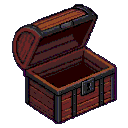
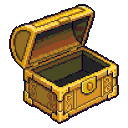
金色发光宝箱 + 右上角小地图与 Tab 全图
**宝箱改成金色并会发光**：原来是深褐木箱，在暗洞里几乎看不见。
重出成刻花纹的黄铜金箱、锁扣嵌琥珀宝石，开启态配套做了一个（盖子掀开、里面空且暗）。
渲染上给「没开过的」箱子加两层特效：
- 一圈暖金色径向光晕，加色混合（暗背景上才亮得起来），2.4 秒呼吸一次——
  比 tiles.js 里那些动画还慢，绝不做成一闪一闪的
- 箱盖上飘两点碎光，位置是 animT 的纯函数，不掷随机数（掷了会变噪点）
开过的箱子不发光也不飘碎光——已经拿完了就别再吸引注意。

**地图**：右上角常驻小地图，Tab 或 Q 摊开全图（再按一次、或确认/取消关掉）。
罗经圈本来就是「像罗盘一样绕」的设计，没有地图很容易迷路。
小地图只画地形色块不画瓦片图——16×16 的瓦片缩到 2px 什么也看不出，反而糊成一片。
墙与水分开配色（都过不去，但水另给一色）、楼梯与门是青点、没开的箱是金点、
开过的不画，主角是白点配 2.2 秒的柔和呼吸。
地名条出现时小地图让位，摊开全图时两者都让位。

顺带修：新出的铺石地又是粉的（Gemini 画石材爱带粉红，这是第二次踩）。
用跟上一版同一套参数校色成暖灰石，并把这条连同山瓦片的坑写进 char_prompts.json。

测试 44/44，完整自动试玩通过。

diff --git a/src/field/FieldScene.js b/src/field/FieldScene.js
@@ -86,7 +86,7 @@ export function parseMap(md) {
 
 export class FieldScene {
   constructor(game) {
-    this.game = game; this.transparent = false; this.bgm = 'field'; this.animT = 0; this.nameT = 0;
+    this.game = game; this.transparent = false; this.bgm = 'field'; this.animT = 0; this.nameT = 0; this.showMap = false;
     const m = game.state.map;
     this.loadMap(m.id, m.x, m.y, m.facing);
   }
@@ -161,6 +161,8 @@ export class FieldScene {
       if (input.justPressed('debugHeal')) for (const m of this.game.state.party) healFull(m, this.game.data);
     }
     if (!p.moving) {
+      if (input.justPressed('map')) { audio.sfx('confirm'); this.showMap = !this.showMap; return; }
+      if (this.showMap) { if (input.justPressed('confirm') || input.justPressed('cancel')) this.showMap = false; return; }
       if (input.justPressed('cancel')) { audio.sfx('confirm'); this.game.scenes.push(new MenuScene(this.game)); return; }
       if (input.justPressed('confirm')) { this.interact(); return; }
     }
@@ -273,6 +275,73 @@ export class FieldScene {
   }
 
   // ---------- 渲染 ----------
+
+  // ---------- 地图 ----------
+  // 右上角常驻小地图 + 按 Tab/Q 摊开全图。
+  // 洞窟绕来绕去（罗经圈本来就是「像罗盘一样绕」的设计），没有地图很容易迷路。
+  // 小地图只画地形色块不画瓦片图：16×16 的瓦片缩到 2px 什么也看不出，反而糊成一片。
+  mapColor(cell) {
+    const t = cell.tile;
+    if (cell.solid) return t === 'water' ? '#1d3c52' : '#2b2a30';   // 墙与水都是过不去的，但水另给一色
+    if (t === 'path' || t === 'flagstone' || t === 'floor') return '#8a7a5e';
+    if (t === 'sand') return '#9c8f6a';
+    if (t === 'grass' || t === 'town') return '#4a6b3a';
+    if (t === 'forest' || t === 'tree') return '#2f4a2a';
+    if (t === 'bridge') return '#7a5a3a';
+    return '#4a4750';                                                // 洞窟地面等
+  }
+  // 画一张地图：scale = 每格几个逻辑像素
+  drawMapAt(ctx, ox, oy, scale, { dots = true } = {}) {
+    const map = this.map, st = this.game.state;
+    for (let y = 0; y < map.h; y++) for (let x = 0; x < map.w; x++) {
+      ctx.fillStyle = this.mapColor(map.cells[y * map.w + x]);
+      ctx.fillRect(ox + x * scale, oy + y * scale, scale, scale);
+    }
+    if (!dots) return;
+    // 楼梯与门：亮青色；没开过的宝箱：金色；开过的不画（已经拿完了就别再吸引注意）
+    for (const ev of Object.values(map.events)) {
+      const s = Math.max(1, scale);
+      if (ev.type === 'warp') ctx.fillStyle = '#6fe0d0';
+      else if (ev.type === 'chest') { if (this.chestOpened(ev)) continue; ctx.fillStyle = '#ffd257'; }
+      else if (ev.type === 'crystal') ctx.fillStyle = '#ff9c4a';
+      else continue;
+      ctx.fillRect(ox + ev.x * scale, oy + ev.y * scale, s, s);
+    }
+    // 主角：白点 + 2.2 秒一次的柔和呼吸（周期够慢，不会看成闪）
+    const k = 0.72 + 0.28 * Math.sin(this.animT * (2 * Math.PI / 2.2));
+    ctx.globalAlpha = k;
+    ctx.fillStyle = '#fff';
+    ctx.fillRect(ox + this.p.x * scale - (scale < 2 ? 0 : 1), oy + this.p.y * scale - (scale < 2 ? 0 : 1),
+                 Math.max(2, scale + 2), Math.max(2, scale + 2));
+    ctx.globalAlpha = 1;
+  }
+  renderMinimap(ctx) {
+    const { W } = this.game, map = this.map;
+    const MAX = 54;                                   // 右上角这块最多占 54×54 逻辑像素
+    const scale = Math.max(1, Math.floor(Math.min(MAX / map.w, MAX / map.h)));
+    const mw = map.w * scale, mh = map.h * scale;
+    const ox = W - mw - 7, oy = 7;
+    ctx.save();
+    ctx.globalAlpha = 0.82;                           // 半透明，别把地图角落挡死
+    ctx.fillStyle = '#0d100e'; ctx.fillRect(ox - 2, oy - 2, mw + 4, mh + 4);
+    this.drawMapAt(ctx, ox, oy, scale);
+    ctx.globalAlpha = 1;
+    ctx.strokeStyle = '#6b5a3a'; ctx.lineWidth = 1;
+    ctx.strokeRect(ox - 2.5, oy - 2.5, mw + 5, mh + 5);
+    ctx.restore();
+  }
+  renderFullMap(ctx) {
+    const { W, H } = this.game, map = this.map;
+    ctx.fillStyle = 'rgba(8,10,9,0.88)'; ctx.fillRect(0, 0, W, H);
+    const scale = Math.max(1, Math.floor(Math.min((W - 40) / map.w, (H - 56) / map.h)));
+    const mw = map.w * scale, mh = map.h * scale;
+    const ox = Math.round((W - mw) / 2), oy = Math.round((H - mh) / 2) + 4;
+    drawWindow(ctx, ox - 6, oy - 6, mw + 12, mh + 12);
+    this.drawMapAt(ctx, ox, oy, scale);
+    drawText(ctx, map.name || '', W / 2, 8, { align: 'center', color: '#e6c46a' });
+    drawText(ctx, '楼梯/门 · 未开的箱 · 你', W / 2, H - 14, { align: 'center', color: '#8a8468' });
+  }
+
   render(ctx) {
     const { W, H } = this.game, p = this.p, map = this.map;
     const px = lerp(p.fromX, p.x, p.t) * TILE, py = lerp(p.fromY, p.y, p.t) * TILE;
@@ -296,7 +365,37 @@ export class FieldScene {
     }
     for (const ev of Object.values(map.events)) {
       if (ev.type !== 'chest') continue;
-      drawArt(ctx, this.game.tiles[this.chestOpened(ev) ? 'chest_open' : 'chest'], ev.x * TILE - camX, ev.y * TILE - camY);
+      const opened = this.chestOpened(ev);
+      const bx = ev.x * TILE - camX, by = ev.y * TILE - camY;
+      // 没开过的箱子发一层暖金色的光，让玩家在暗洞里一眼看见。
+      // 呼吸周期 2.4 秒——比 tiles.js 里那些还慢，绝不能做成一闪一闪的。
+      if (!opened) {
+        const k = 0.5 + 0.5 * Math.sin(this.animT * (2 * Math.PI / 2.4));
+        const cx = bx + TILE / 2, cy = by + TILE / 2;
+        const g = ctx.createRadialGradient(cx, cy, 1, cx, cy, TILE * (0.95 + k * 0.2));
+        g.addColorStop(0, `rgba(255,224,140,${0.30 + k * 0.16})`);
+        g.addColorStop(0.55, `rgba(255,196,90,${0.12 + k * 0.07})`);
+        g.addColorStop(1, 'rgba(255,190,80,0)');
+        ctx.save();
+        ctx.globalCompositeOperation = 'lighter';   // 加色，暗背景上才亮得起来
+        ctx.fillStyle = g;
+        ctx.fillRect(cx - TILE * 1.2, cy - TILE * 1.2, TILE * 2.4, TILE * 2.4);
+        ctx.restore();
+      }
+      drawArt(ctx, this.game.tiles[opened ? 'chest_open' : 'chest'], bx, by);
+      // 箱盖上飘两点碎光，位置是时间的纯函数（不掷随机数，免得变噪点）
+      if (!opened) {
+        ctx.save();
+        ctx.globalCompositeOperation = 'lighter';
+        for (let i = 0; i < 2; i++) {
+          const ph = this.animT / 3.1 + i * 0.5 + (ev.x * 0.37 + ev.y * 0.61);
+          const u = ph % 1;
+          ctx.globalAlpha = Math.sin(u * Math.PI) * 0.75;
+          ctx.fillStyle = '#fff4c8';
+          ctx.fillRect(Math.round(bx + 3 + ((i * 7 + Math.floor(ph) * 5) % 10)), Math.round(by + 11 - u * 9), 1, 1);
+        }
+        ctx.restore();
+      }
     }
     // 角色按 y 排序绘制
     const leader = this.game.state.party[0];
@@ -315,10 +414,11 @@ export class FieldScene {
     drawables.sort((a, b) => a.y - b.y).forEach(d => d.draw());
     this.renderAmbience(ctx, camX, camY, px, py, mw, mh);
     if (this.poisonT > 0) { ctx.fillStyle = 'rgba(120,40,160,0.35)'; ctx.fillRect(0, 0, W, H); }
-    if (this.nameT > 0 && map.name) {
+    if (this.showMap) this.renderFullMap(ctx);           // 摊开全图时地名条与小地图都让位
+    else if (this.nameT > 0 && map.name) {
       const w = 112; drawWindow(ctx, (W - w) / 2, 8, w, 26);
       drawText(ctx, map.name, W / 2, 15, { align: 'center' });
-    }
+    } else this.renderMinimap(ctx);
   }
   // 气氛层：粒子 → 光照 → 色调。画在人物之后、UI 之前，
   // 所以尘埃会被暗角压暗（远处的尘看着更远），而地图名和中毒闪不会被调色影响。

diff --git a/src/core/Input.js b/src/core/Input.js
@@ -5,12 +5,13 @@ const KEYMAP = {
   KeyZ: 'confirm', Enter: 'confirm', Space: 'confirm',
   KeyX: 'cancel', Escape: 'cancel', Backspace: 'cancel',
   KeyB: 'debugBattle', KeyH: 'debugHeal', KeyM: 'mute',
+  Tab: 'map', KeyQ: 'map',   // 摊开全图看地形
 };
 // 有些环境（自动化工具、部分输入法）只给 e.key 不给 e.code，两者都认
 const KEYNAME = {
   ArrowUp: 'up', w: 'up', ArrowDown: 'down', s: 'down', ArrowLeft: 'left', a: 'left', ArrowRight: 'right', d: 'right',
   z: 'confirm', Enter: 'confirm', ' ': 'confirm', x: 'cancel', Escape: 'cancel', Backspace: 'cancel',
-  b: 'debugBattle', h: 'debugHeal', m: 'mute',
+  b: 'debugBattle', h: 'debugHeal', m: 'mute', Tab: 'map', q: 'map',
   Return: 'confirm', Up: 'up', Down: 'down', Left: 'left', Right: 'right', // 旧式/自动化工具的键名
 };
 const actionOf = e => KEYMAP[e.code] || KEYNAME[e.key] || KEYNAME[(e.key || '').toLowerCase()];

diff --git a/README.md b/README.md
@@ -22,6 +22,7 @@ python3 tools/serve.py
 | Z / Enter / Space | 确认、和 NPC 说话、开宝箱（战斗中按住可加速） |
 | X / Esc | 取消 / 打开主菜单（物品 装备 名册 转职 设置 记下 想起） |
 | M | 静音 |
+| Tab / Q | 摊开全图（右上角常驻小地图） |
 | B（调试） | 强制遇敌 |
 | H（调试） | 全员回满 |
 
